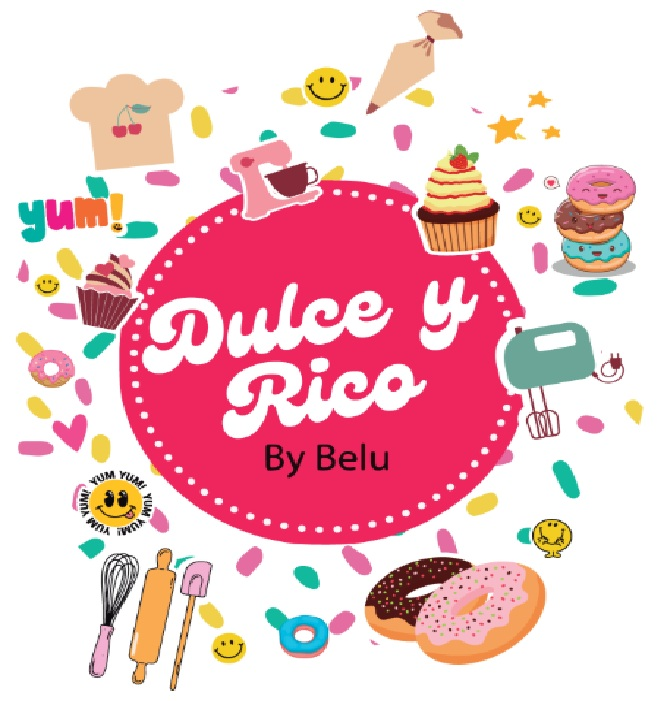
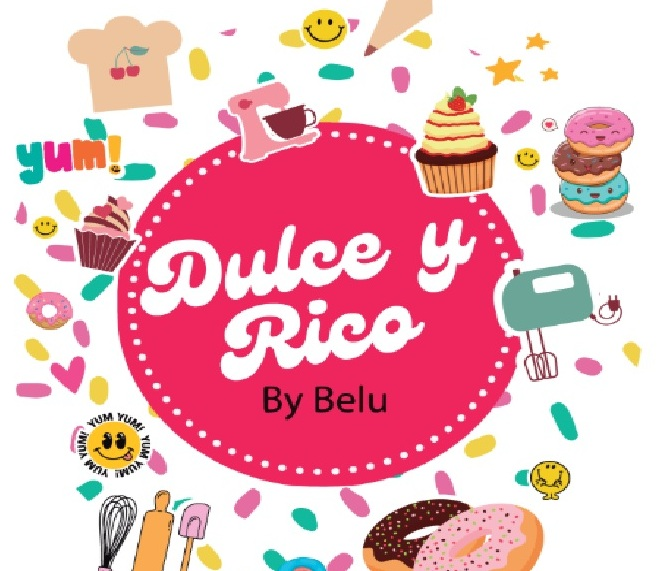
ricobanner

diff --git a/ver-grupos-partidos.html b/ver-grupos-partidos.html
@@ -182,8 +182,9 @@
             <a href="https://www.instagram.com/magnagooutdoor/" target="_blank" class="insta-link" data-user="magnagooutdoor">
             <img src="banners/magnano.jpg" alt="Publicidad Outdor">
                 </a>    
-                <a href="https://www.petenattihogar.com.ar/" target="_blank" >
-            <img src="banners/bannerpetenatti.jpg" alt="Publicidad Petenatti Rio Cuarto">
+            </a>
+              <a href="https://www.instagram.com/dulceyricobelu/" target="_blank" class="insta-link" data-user="dulceyricobelu">
+            <img src="banners/rico.jpeg" alt="Publicidad Rioco Rio Cuarto">
                 </a>
                <a href="https://cinesunstar.com" target="_blank" >
             <img src="banners/sunstar.jpg" alt="Publicidad Sunstar Cinema">
@@ -198,9 +199,9 @@
                 
             <a href="https://segurosenriocuarto.com/" target="_blank">
             <img src="banners/gustlopez.jpg" alt="Publicidad Seguros Rio Cuarto">
-                </a>
-              <a href="https://www.instagram.com/dulceyricobelu/" target="_blank" class="insta-link" data-user="dulceyricobelu">
-            <img src="banners/rico.jpeg" alt="Publicidad Rioco Rio Cuarto">
+                
+            <a href="https://www.petenattihogar.com.ar/" target="_blank" >
+            <img src="banners/bannerpetenatti.jpg" alt="Publicidad Petenatti Rio Cuarto">
                 </a>
             <a href="https://www.itecriocuarto.org.ar/adabyron" target="_blank">
             <img src="banners/banner-ia-vertical.jpg" alt="Publicidad Tecnicatura en Ciencia de Datos e IA">